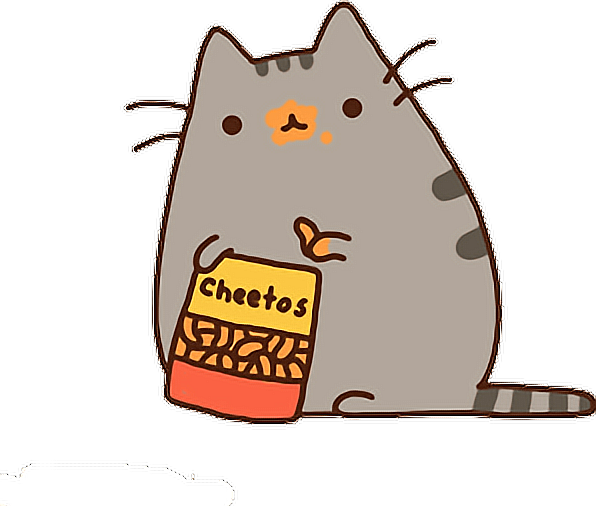
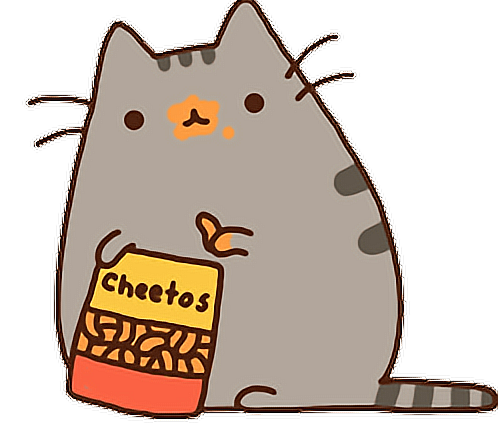
get images to be centered horizontally and vertiaclly in the grid

diff --git a/docs/portfolio.html b/docs/portfolio.html
@@ -38,76 +38,32 @@
       </nav>
 
       <!--Put all portfolio items here in a grid with responsive pictures and picture links-->
-    
-        <div class="container mycontainer">
-
-          <div class="row my row">
-
-            <div class="col-md tableheader mycol">
-                <a href="https://github.com/korynelson" target="_blank">
-                 My github
-                </a>
-            </div>
+      <div class="container">
+        <div class="row">
+          <div class="col-md d-flex align-items-center justify-content-center">
+            <img src="./assets/cost-management.png" class="img-fluid" alt="Search Engine Optimization" >
           </div>
-
-          <div class="row myrow">
-
-            <div class="col-md mycol">
-              <figure class="figure">
-                <a href="https://korynelson.github.io/homework01.io/" target="_blank">
-                <img src="./assets/cost-management.png" class="figure-img img-fluid rounded" alt="Search Engine Optimization">
-                </a>
-                <figcaption class="figure-caption">Code Refactoring - Homework #1</figcaption>
-              </figure>
-            </div>
-            
-            <div class="col-md mycol">
-              <figure class="figure">
-                <a href="https://github.com/korynelson/homework01.io" target="_blank">
-                <img src="./assets/Badge Photo_Kory Nelson.jpg" class="figure-img img-fluid rounded" alt="Search Engine Optimization">
-                </a>
-                <figcaption class="figure-caption">Responsive Portfolio - Homework #2</figcaption>
-              </figure>
-            </div>
-
-            <div class="col-md mycol">
-              <figure class="figure">
-                <a href="https://atoshiaki.github.io/Project_1.whatAmISharing.github.io/" target="_blank">
-                <img src="./assets/cheetocat.png" class="figure-img img-fluid rounded" alt="Search Engine Optimization">
-                </a>
-                <figcaption class="figure-caption">Group Project #1</figcaption>
-              </figure>
+          <div class="col-md d-flex align-items-center justify-content-center">
+            <img src="./assets/Badge Photo_Kory Nelson.jpg" class="img-fluid" alt="Search Engine Optimization" ></a>
           </div>
-          </div>
-
-          <div class="row myrow">
-
-            <div class="col-md mycol">
-              <figure class="figure">
-                <a href="https://github.com/korynelson/homework01.io" target="_blank">
-                <img src="./assets/search-engine-optimization.jpg" class="figure-img img-fluid rounded" alt="Search Engine Optimization">
-                </a>
-              </figure>
-            </div>
-
-            <div class="col-md mycol">
-              <figure class="figure">
-                <a href="https://github.com/korynelson/homework01.io" target="_blank">
-                <img src="./assets/search-engine-optimization.jpg" class="figure-img img-fluid rounded" alt="Search Engine Optimization">
-                </a>
-              </figure>
-            </div>
-
-            <div class="col-md mycol">
-              <figure class="figure">
-                <a href="https://github.com/korynelson/homework01.io" target="_blank">
-                <img src="./assets/search-engine-optimization.jpg" class="figure-img img-fluid rounded" alt="Search Engine Optimization">
-                </a>
-              </figure>
-            </div>
-
+          <div class="col-md d-flex align-items-center justify-content-center">
+            <img src="./assets/search-engine-optimization.jpg" class="img-fluid" alt="Search Engine Optimization">
           </div>
         </div>
+        <div class="row">
+          <div class="col-md d-flex align-items-center justify-content-center">
+            <img src="./assets/cheetocat.png" class="img-fluid" alt="Search Engine Optimization">
+          </div>
+          <div class="col-md d-flex align-items-center justify-content-center">
+            <img src="./assets/search-engine-optimization.jpg" class="img-fluid" alt="Search Engine Optimization">
+          </div>
+          <div class="col-md d-flex align-items-center justify-content-center">
+            <img src="./assets/search-engine-optimization.jpg" class="img-fluid" alt="Search Engine Optimization">
+          </div>
+        </div>
+      </div>
+
+      <a href="https://github.com/korynelson" class="btn btn-secondary btn-block active" role="button" aria-pressed="true">Full Portfolio</a>
 
       <!--Copyright Footer-->
       <nav class="navbar fixed-bottom navbar-light bg-light">

diff --git a/docs/index.html b/docs/index.html
@@ -49,7 +49,7 @@
         <div class="row myrow">
 
           <!--This is only a column for md or bigger screens, otherwise these are all just rows-->
-          <div class="col-md-3 mycol">
+          <div class="col-md-3 mycol d-flex align-items-center justify-content-center">
             <img src="./assets/Badge Photo_Kory Nelson.jpg" class="figure-img img-fluid rounded" alt="Korys headshot" width="350" height="350">
           </div>
 
@@ -79,7 +79,7 @@
         <div class="row myrow">
           
             <!--This is only a column for md or bigger screens, otherwise these are all just rows-->  
-            <div class="col-md-3 mycol">
+            <div class="col-md-3 mycol d-flex align-items-center justify-content-center">
               <img src="./assets/jeeppic.jpg" class="figure-img img-fluid rounded" alt="Jeep in front of mount rainier" width="350" height="350">
             </div>
 

diff --git a/docs/assets/style.css b/docs/assets/style.css
@@ -1,18 +1,7 @@
 body{
-    padding-bottom: 100px;
-    padding-top: 100px;
+    padding-bottom: 50px;
+    padding-top: 50px;
     margin: 50px;
-}
-
-.tableheader{
-    height: 50px;
-    font-size: 20px;
-    font-weight: 700;
-    text-align: center;
-    color: grey;
-    border: solid 3px grey;
-
-    
 }
 
 .myrow{
@@ -39,4 +28,18 @@ body{
 
 .myform{
     max-width: 750px;
+}
+
+.photo {
+    display: table;
+}
+.photo a {
+    vertical-align: middle;
+    display: table-cell;
+}
+.photo img {
+    display: block;
+    height: auto;
+    width: 100%;
+    vertical-align: middle;
 }

diff --git a/docs/contact.html b/docs/contact.html
@@ -54,7 +54,7 @@
         </div>
 
         <div class="form-group">
-          <label for="exampleFormControlTextarea1">Email</label>
+          <label for="exampleFormControlTextarea1">Message</label>
           <textarea class="form-control" id="exampleFormControlTextarea1" placeholder="Type a super interesting e-mail you would like to send me" rows="15"></textarea>
         </div>
         <div>
